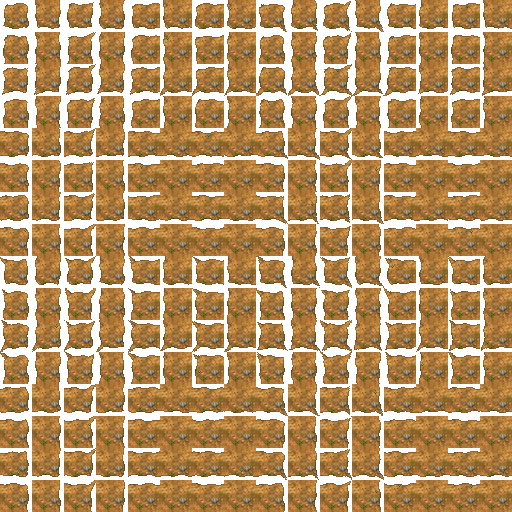
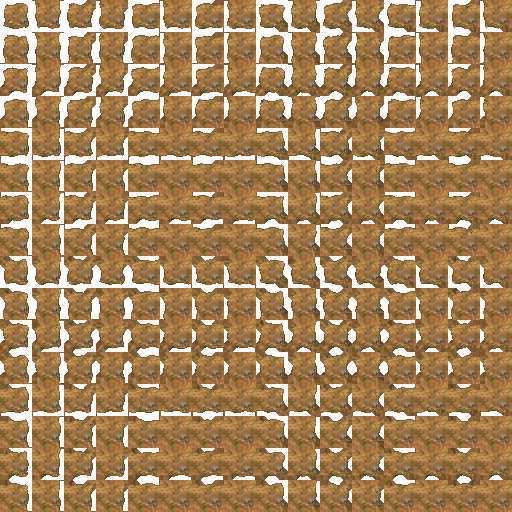
Publish Village simulation 7c8558be3d366d04d46471a5771738d67f36a5f4 (2880 ticks)

diff --git a/tile-atlas.js b/tile-atlas.js
@@ -126,25 +126,39 @@ function pathVisualWidth(entity) {
     return width % 2 === 0 ? Math.max(1, width - 1) : width;
 }
 
-function pathPerpendicular(dx, dy) {
-    if (dx === 0 && dy === 0) return { x: 0, y: 0 };
-    if (dx === 0) return { x: 1, y: 0 };
-    if (dy === 0) return { x: 0, y: 1 };
-    return { x: -Math.sign(dy), y: Math.sign(dx) };
+function pointSegmentDistanceSquared(point, start, end) {
+    const dx = end.x - start.x;
+    const dy = end.y - start.y;
+    if (dx === 0 && dy === 0) {
+        const px = point.x - start.x;
+        const py = point.y - start.y;
+        return px * px + py * py;
+    }
+    const t = Math.max(0, Math.min(1,
+        ((point.x - start.x) * dx + (point.y - start.y) * dy) / (dx * dx + dy * dy)
+    ));
+    const closestX = start.x + t * dx;
+    const closestY = start.y + t * dy;
+    const px = point.x - closestX;
+    const py = point.y - closestY;
+    return px * px + py * py;
 }
 
 function addSegmentBandCells(cells, segmentCells, radius) {
-    for (let index = 0; index < segmentCells.length; index++) {
-        const previous = segmentCells[Math.max(0, index - 1)];
-        const next = segmentCells[Math.min(segmentCells.length - 1, index + 1)];
-        const dx = Math.sign(next.x - previous.x);
-        const dy = Math.sign(next.y - previous.y);
-        const perpendicular = pathPerpendicular(dx, dy);
-        for (let offset = -radius; offset <= radius; offset++) {
-            cells.add(pathCellKey(
-                segmentCells[index].x + perpendicular.x * offset,
-                segmentCells[index].y + perpendicular.y * offset
-            ));
+    const start = segmentCells[0];
+    const end = segmentCells[segmentCells.length - 1];
+    const padding = Math.ceil(radius);
+    const radiusSquared = radius * radius;
+
+    // Fill every metre cell whose centre falls inside the unchanged road width.
+    // This closes the empty checker gaps caused by parallel diagonal tile rows.
+    for (const centre of segmentCells) {
+        for (let y = centre.y - padding; y <= centre.y + padding; y++) {
+            for (let x = centre.x - padding; x <= centre.x + padding; x++) {
+                if (pointSegmentDistanceSquared({ x, y }, start, end) <= radiusSquared) {
+                    cells.add(pathCellKey(x, y));
+                }
+            }
         }
     }
 }
@@ -154,7 +168,7 @@ function roadPathCells(entity) {
     const cells = new Set();
     if (points.length === 0) return cells;
 
-    const radius = Math.floor(pathVisualWidth(entity) / 2);
+    const radius = pathVisualWidth(entity) / 2;
     if (points.length === 1) {
         const x = Math.floor(points[0].x);
         const y = Math.floor(points[0].y);
@@ -314,9 +328,9 @@ function drawEightDirectionWorldTiles(project) {
 }
 
 // Simulation roads keep their objective polyline and width. Only the visible
-// presentation is rasterised to eight-connected metre cells. Width is added
-// perpendicular to each segment so bends no longer balloon into square blocks;
-// a finished neighbour-mask autotile supplies the irregular grass/dirt boundary.
+// presentation is rasterised to eight-connected metre cells. Cell centres within
+// the unchanged displayed width are filled so diagonal runs stay continuous;
+// neighbour-mask autotiles supply the irregular grass/dirt boundary.
 drawGrid = function(project) {
     drawEightDirectionWorldTiles(project);
 };

diff --git a/assets/tiles-png/README.md b/assets/tiles-png/README.md
@@ -22,9 +22,12 @@ beneath, with occasional tiny grass blades and flowers breaking into the track.
 The viewer chooses a sprite using the existing eight-neighbour mask. It may
 quarter-turn the equivalent mask art by world cell to vary the surface grain;
 rotating the matching mask and sprite together preserves the path silhouette.
-This is a visual detail only and does not alter road geometry, navigation,
-collision or the one-metre simulation grid. The 32×32 sprite still renders at
-32 pixels per simulation metre. Market squares continue to use full dirt tiles.
+Road polylines and their widths remain simulation-owned. The viewer samples
+rendered metre cells across each unchanged road width, which fills the gaps
+between diagonal rows and keeps the visible dirt connected. This changes only
+the rendered surface; routing, navigation, collision and the one-metre simulation
+grid remain unchanged. The 32×32 sprite still renders at 32 pixels per metre.
+Market squares continue to use full dirt tiles.
 
 The older `path_center*.png` and `path_[direction].png` files are legacy artwork
 from the composited-arm experiment and are no longer loaded by the viewer.
